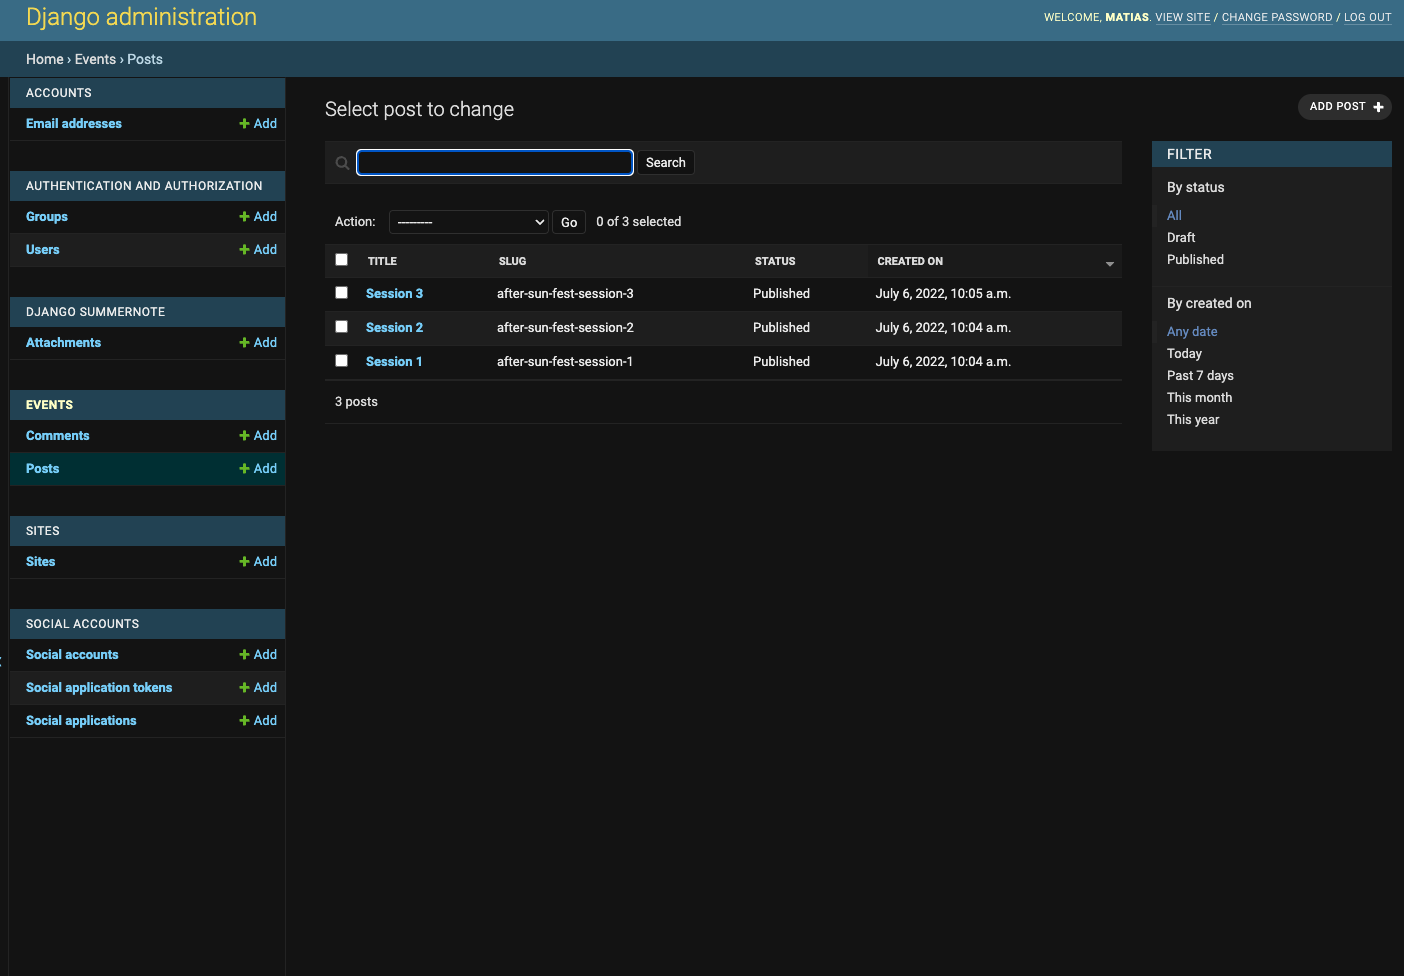
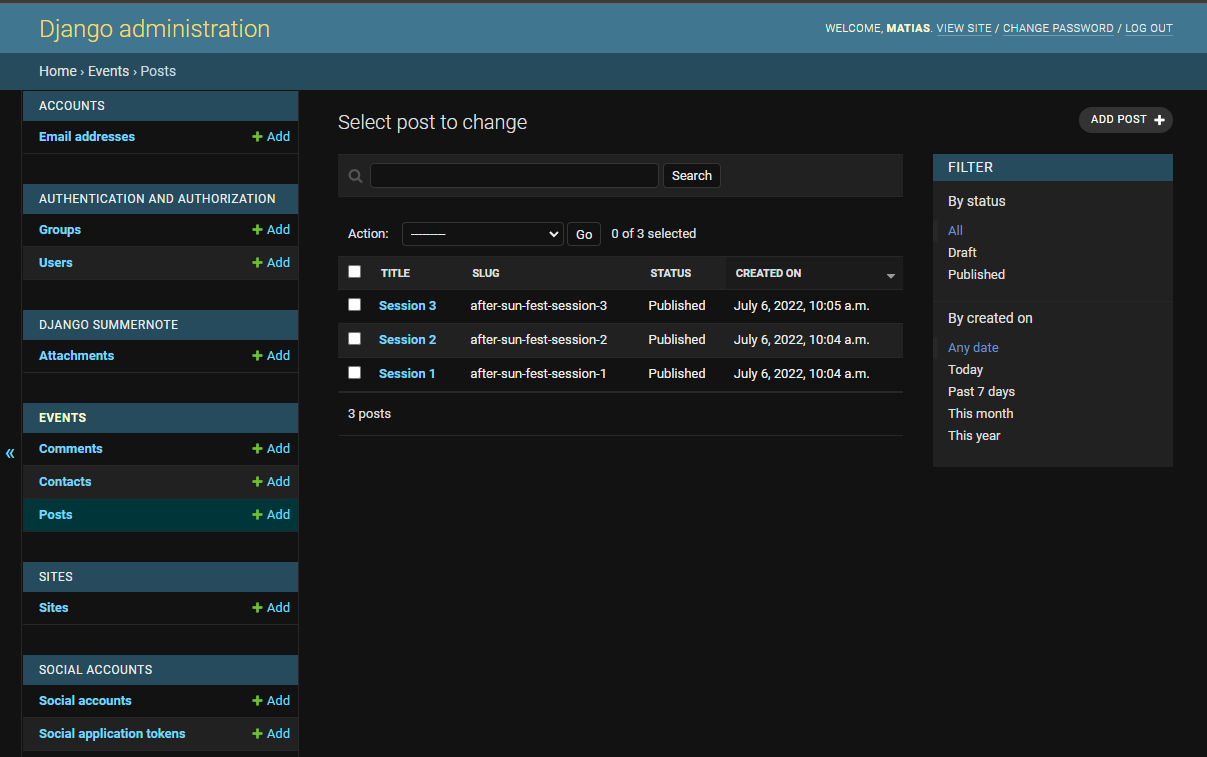
Finish readme

diff --git a/events/views.py b/events/views.py
@@ -116,7 +116,9 @@ def update_comment(request, comment_id):
     Returns:
     Home view with message for waiting approval.
     """
-    form = CommentForm(instance=Comment.objects.get(id=comment_id), data=request.POST)
+    form = CommentForm(
+        instance=Comment.objects.get(id=comment_id), data=request.POST
+        )
     if request.method == 'POST':
         if form.is_valid():
             new_form = form.save(commit=False)
@@ -126,6 +128,7 @@ def update_comment(request, comment_id):
         return redirect(reverse('home'))
 
     return render(request, 'update_comment.html', {'form': form})
+
 
 def contact_form(request):
     """

diff --git a/events/forms.py b/events/forms.py
@@ -13,10 +13,14 @@ class CommentForm(forms.ModelForm):
         model = Comment
         fields = ('body',)
 
+
 class ContactForm(forms.ModelForm):
     """
-    Class form to contact the admin
+    Class form to contact the admin-
     """
     class Meta:
+        """
+        Body of the form
+        """
         model = Contact
         fields = '__all__'

diff --git a/events/admin.py b/events/admin.py
@@ -29,4 +29,3 @@ class CommentAdmin(admin.ModelAdmin):
 
     def approve_comments(self, request, queryset):
         queryset.update(approved=True)
-

diff --git a/README.md b/README.md
@@ -258,9 +258,7 @@ Logged-out comment section.
 
 - Update comment.
     - Only available for logged in users and for updating their own users comment.
-    - Sends you to another page to update and send your new comment, after update the user is sent to the home page.
-    - New comment needs approval.
-    - Old comment after update dissapears.
+    - Sends you to another page to update and send your new comment, after update the user is sent to the home page, aslo user gets a new blank space for the new comment to be updated, old one will be errased. In the back end the comment is processed as one.
     - Message to user "waiting for approval" after update.
 
 
@@ -278,17 +276,12 @@ Update comment waiting for approval.
 
 Update comment view after approval.
 
-
-![Different user logged in comments view](/assets/readme-images/different-user-logged-comment-view.png)
-
-Different user logged in comments view.
-
-  
 - Delete comment.
    - Only available for logged in users and for deleting their own comments.
    - Pop-up message with back and delete confirmation option.
+   - Success message after deleting comment.
 
-![Delete in comments view](/assets/readme-images/delete-comment.png)
+![Delete in comments view](/assets/readme-images/update-comment-approved.png)
 
 Delete in comments view logged in as author.
 
@@ -300,22 +293,33 @@ Delete pop-up message confirmation.
 
 ![View after choosing back deleting](/assets/readme-images/delete-comment-back.png)
 
-View after choosing back deleting.
+View after choosing back deleting and message.
 
 
 ![View after deleting comment](/assets/readme-images/deleted-comment.png)
 
 View after deleting comment.
 
+- Contact.
+    - New Model for resubmission.
+    - Allows all users to contact the admin of the site.
+    - Requires name, subject, email and body text.
+    - Shows success message after submiting the form.
 
-![Delete option view for different user than author](/assets/readme-images/delete-comment-other-user-logged-in.png)
 
-Delete option view for different user than author of comment.
+![Contact form](/assets/readme-images/contact.png)
 
+Contact form.
+
+
+![Contact form success](/assets/readme-images/contact-success.png)
+
+Contact form success.
 
 - Responsive on all device sizes and has interactive elements.
 
     - Web, Ipad Air and Iphone 12 pro.
+
 
 ![Welcome image](/assets/readme-images/first-run.png)
 
@@ -350,6 +354,11 @@ Admin image.
 Admin Comments section.
 
 
+![Admin Comments edit section](/assets/readme-images/admin-comment-edit.png)
+
+Admin Comments edit section.
+
+
 ![Admin Events section](/assets/readme-images/admin-event.png)
 
 Admin Events section.
@@ -360,6 +369,17 @@ Admin Events section.
 
 Admin Events edit section.
 
+
+![Admin Contact section](/assets/readme-images/admin-contact.png)
+
+Admin Contact section.
+
+
+![Admin Contact edit section](/assets/readme-images/admin-contact-edit.png)
+
+
+Admin Contact edit section.
+
 ![Database schema](/assets/readme-images/database-schema.png)
 
 - The Comment model is connected with the post attribute as a foreign key to the Model Post, so there is a direct relation for each session to have exclusive comments, if the session is deleted, also the comments from that session will be deleted. The new model for resubmission consists in a Contact model for Contact form that will allow any user, no need of being logged in, to contact the admin, with name, subject, email, and body text as requirement. This form will be submitted to the back end.
@@ -369,12 +389,12 @@ Admin Events edit section.
 
 - Allow the user to change the password.
 - Allow the user to recover the password.
-- Updated comment message "waiting to be approved".
+- (Solved) Updated comment message "waiting to be approved".
 
 
 ### Bugs
 
-- If a Logged-in User comments a posta and after that the Admin approves the comment, then the user refreshes the page, the message "comment waiting for approval" will still be there instead of the possibility to create a new comment. For this the user needs to go home and then back to the event page to be able to comment again.
+- (Solved) If a Logged-in User comments a session and after that the Admin approves the comment, then the user refreshes the page, the message "comment waiting for approval" will still be there instead of the possibility to create a new comment. For this the user needs to go home and then back to the event page to be able to comment again.
 
 - After final deployment, css was not being shown. First problem was that "X_FRAME_OPTIONS = 'SAMEORIGIN'" was writen with "``" instead. Second problem was that in base.html "<link rel="stylesheet" type="text/css" href=" {% static 'css/style.css' %} ">" was written like <link rel="stylesheet" type="text/css" href=" {% static '/css/style.css' %} "> instead. Bug Fixed.
 
